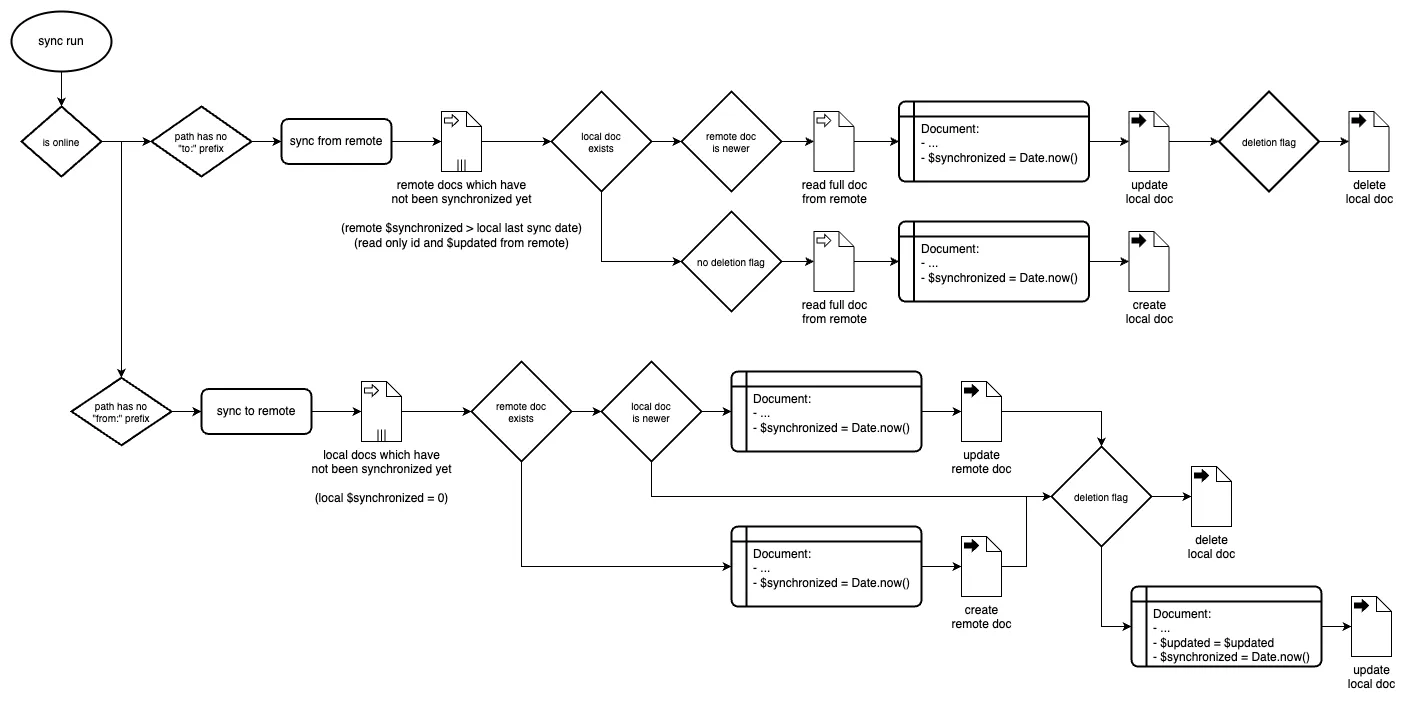
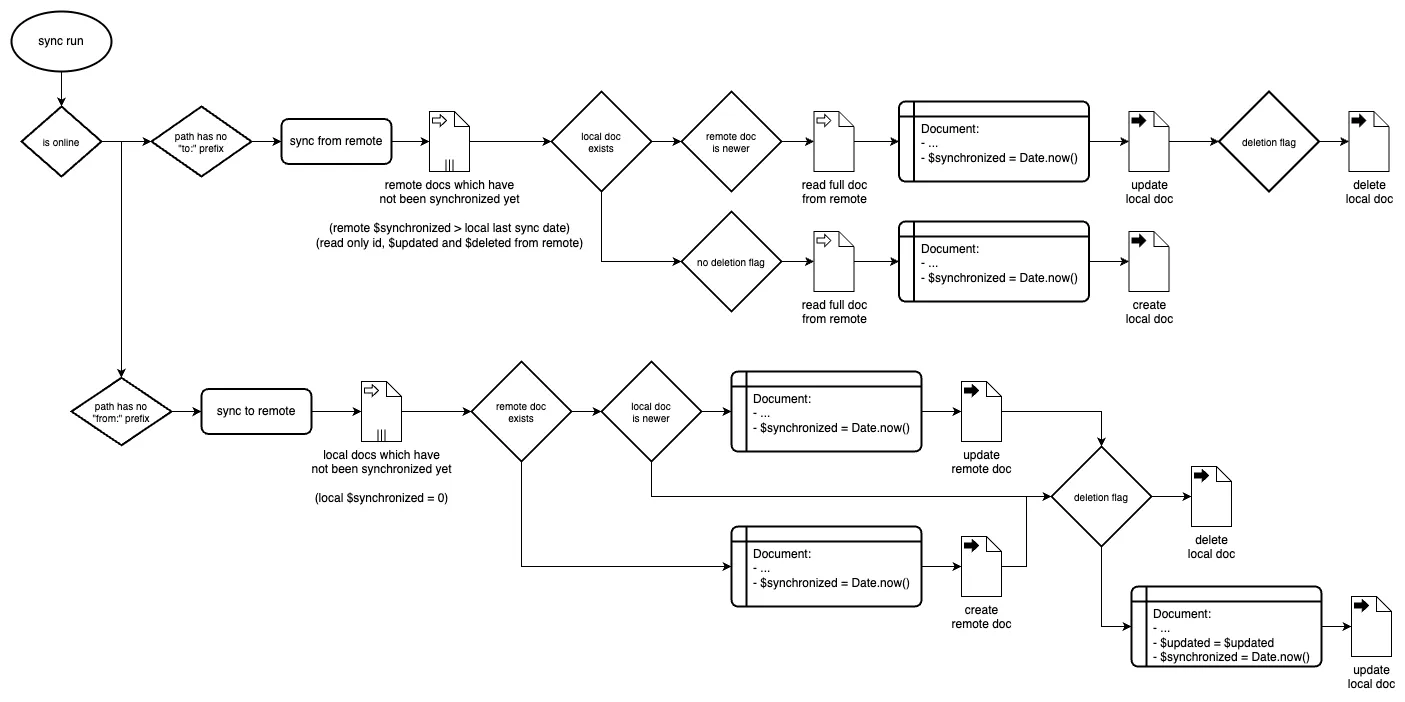
include $deleted from initial remote reading
closes #38

Changed region(s): [[0.2142, 0.1496, 0.4285, 0.359]]

diff --git a/lib/syncFromRemote.js b/lib/syncFromRemote.js
@@ -20,7 +20,7 @@ export default async function syncFromRemote(table, path, api, remoteTable, loca
       // Get not synchronized remote docs
       pageNumber++
       const filter = `$synchronized,ge,${lastSyncTime}`
-      const include = `id,$updated`
+      const include = `id,$updated,$deleted`
       const order = `$synchronized`
       const page = `${pageNumber},${batchSize}`
       const remoteDocs = (await api.list(remoteTable, { filter, include, order, page })).records
